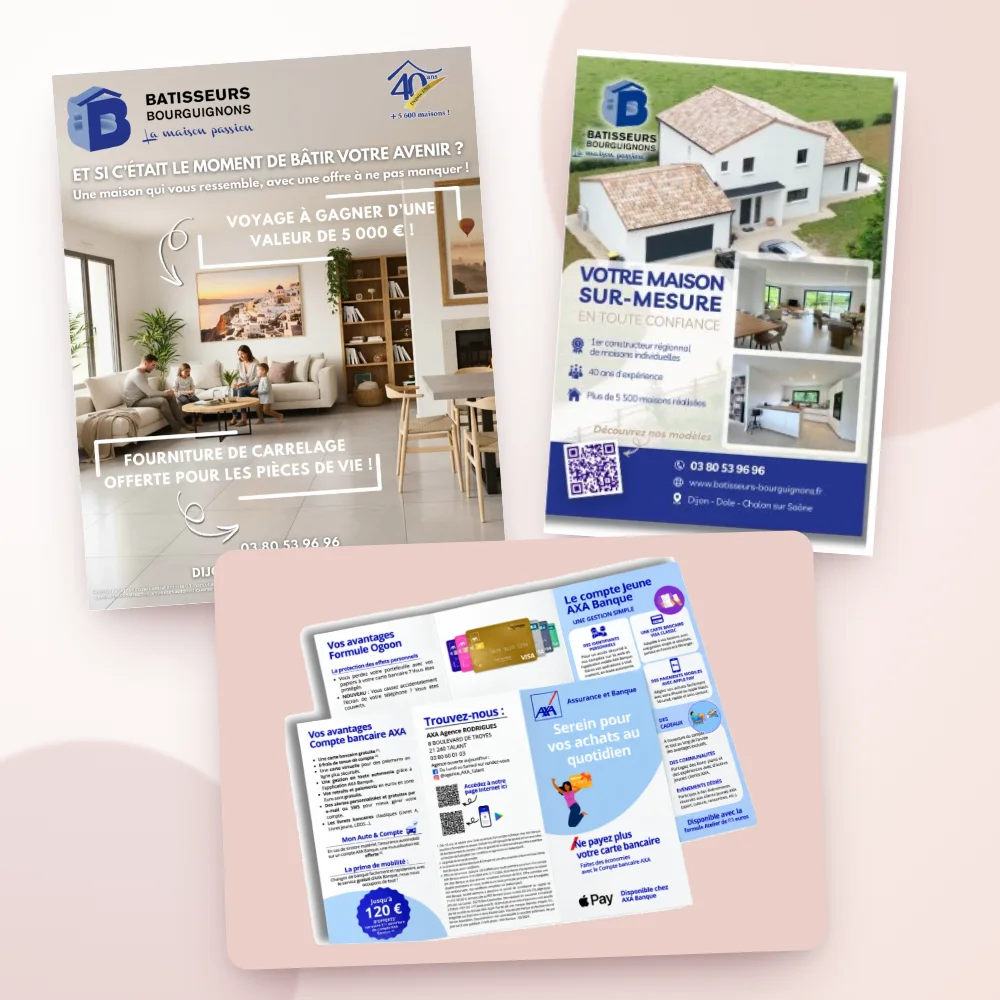
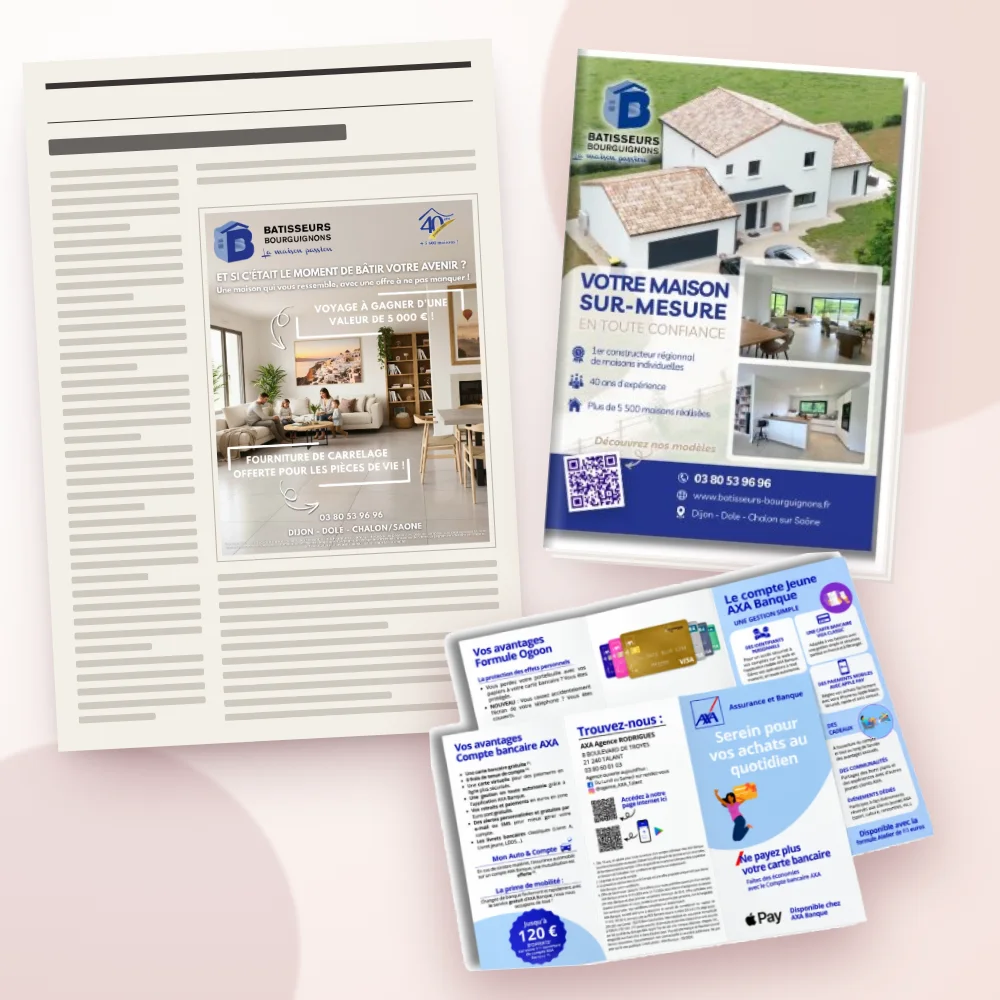
Campagnes : encart dans un journal, 4e de couverture magazine, flyers AXA sans fond
Claude-Session: https://claude.ai/code/session_01ChKnf7MBQ7UGRg99UEPnwq

diff --git a/index.html b/index.html
@@ -807,7 +807,7 @@ blockquote footer b{display:block;color:var(--encre);font-weight:500;font-size:1
   <section class="bloc" id="realisations">
     <div class="wrap">
       <div class="entete-bloc"><div><p class="surtitre">Sur le terrain</p><h2>Mes missions</h2></div><p class="chapo" style="margin:0">Chaque case regroupe un type de mission. Cliquez pour voir le détail par entreprise.</p></div>
-      <div class="mosaique"><button class="projet" type="button" data-projet="social"><span class="plus-ico" aria-hidden="true">+</span><div class="visuel img"><picture><source media="(max-width:600px)" srcset="img/missions/mission-reseaux-sociaux-m.webp"><img src="img/missions/mission-reseaux-sociaux.webp" alt="Grille Instagram de Forme &amp; Force, story et jeu-concours du Marché aux Affaires, publication LinkedIn de NWS Laser" loading="lazy"></picture></div><div class="bas"><div><span class="type-mission">Réseaux sociaux</span><h3>Contenus et animation de communauté</h3><p class="realis">Templates Instagram Forme &amp; Force · Story « Jours fidélité » et jeu-concours Marché aux Affaires · Posts Bâtisseurs Bourguignons et NWS Laser</p></div></div></button><button class="projet" type="button" data-projet="campagnes"><span class="plus-ico" aria-hidden="true">+</span><div class="visuel img"><picture><source media="(max-width:600px)" srcset="img/missions/mission-campagnes-m.webp"><img src="img/missions/mission-campagnes.webp" alt="Encart presse « Voyage à gagner » et flyer « Votre maison sur-mesure » des Bâtisseurs Bourguignons, flyers de l&#x27;agence AXA" loading="lazy"></picture></div><div class="bas"><div><span class="type-mission">Campagnes publicitaires</span><h3>Pub digitale et print</h3><p class="realis">Encart presse et flyer Bâtisseurs Bourguignons · Flyers AXA · Campagnes Google Ads et Meta Ads</p></div></div></button><button class="projet" type="button" data-projet="site"><span class="plus-ico" aria-hidden="true">+</span><div class="visuel img"><picture><source media="(max-width:600px)" srcset="img/missions/mission-site-web-m.webp"><img src="img/missions/mission-site-web.webp" alt="Portfolio de Cloé Rebillard sur ordinateur, landing page et publication sur la fiche Google des Bâtisseurs Bourguignons" loading="lazy"></picture></div><div class="bas"><div><span class="type-mission">Site web et SEO</span><h3>Sites, landing page et fiche Google</h3><p class="realis">Mon portfolio, conçu de A à Z · Landing page et posts fiche Google Bâtisseurs Bourguignons · Participation aux sites Bâtisseurs Bourguignons et NWS Laser</p></div></div></button><button class="projet" type="button" data-projet="evenementiel"><span class="plus-ico" aria-hidden="true">+</span><div class="visuel img"><picture><source media="(max-width:600px)" srcset="img/missions/mission-evenementiel-m.webp"><img src="img/missions/mission-evenementiel.webp" alt="Visiteurs et stand des Bâtisseurs Bourguignons, dossier du team building et affiche du salon Micronora" loading="lazy"></picture></div><div class="bas"><div><span class="type-mission">Événementiel et partenariats</span><h3>Salons et événements réseau</h3><p class="realis">Salons de l&#x27;habitat Bâtisseurs Bourguignons · Team building Marché aux Affaires · Salon Micronora NWS Laser</p></div></div></button><button class="projet" type="button" data-projet="videos"><span class="plus-ico" aria-hidden="true">+</span><div class="visuel img"><picture><source media="(max-width:600px)" srcset="img/missions/mission-videos-m.webp"><img src="img/missions/mission-videos.webp" alt="Vidéo de présentation du modèle de maison Axinite des Bâtisseurs Bourguignons" loading="lazy"></picture></div><div class="bas"><div><span class="type-mission">Vidéos</span><h3>Vidéos de présentation</h3><p class="realis">Vidéo du modèle Axinite et vidéos des réalisations Bâtisseurs Bourguignons</p></div></div></button><button class="projet" type="button" data-projet="strategie"><span class="plus-ico" aria-hidden="true">+</span><div class="visuel img"><picture><source media="(max-width:600px)" srcset="img/missions/mission-strategie-m.webp"><img src="img/missions/mission-strategie.webp" alt="Plan de communication 2026, charte graphique de Cani Positive et tableaux de statistiques" loading="lazy"></picture></div><div class="bas"><div><span class="type-mission">Stratégie et reporting</span><h3>Plans de com&#x27;, identité et résultats</h3><p class="realis">Plan de communication 2026 · Charte graphique Cani Positive · Reportings Facebook, Meta Ads et jeu-concours</p></div></div></button></div>
+      <div class="mosaique"><button class="projet" type="button" data-projet="social"><span class="plus-ico" aria-hidden="true">+</span><div class="visuel img"><picture><source media="(max-width:600px)" srcset="img/missions/mission-reseaux-sociaux-m.webp"><img src="img/missions/mission-reseaux-sociaux.webp" alt="Grille Instagram de Forme &amp; Force, story et jeu-concours du Marché aux Affaires, publication LinkedIn de NWS Laser" loading="lazy"></picture></div><div class="bas"><div><span class="type-mission">Réseaux sociaux</span><h3>Contenus et animation de communauté</h3><p class="realis">Templates Instagram Forme &amp; Force · Story « Jours fidélité » et jeu-concours Marché aux Affaires · Posts Bâtisseurs Bourguignons et NWS Laser</p></div></div></button><button class="projet" type="button" data-projet="campagnes"><span class="plus-ico" aria-hidden="true">+</span><div class="visuel img"><picture><source media="(max-width:600px)" srcset="img/missions/mission-campagnes-m.webp"><img src="img/missions/mission-campagnes.webp" alt="Encart presse « Voyage à gagner » dans un journal, quatrième de couverture « Votre maison sur-mesure » des Bâtisseurs Bourguignons, flyers de l&#x27;agence AXA" loading="lazy"></picture></div><div class="bas"><div><span class="type-mission">Campagnes publicitaires</span><h3>Pub digitale et print</h3><p class="realis">Encart presse et 4e de couverture magazine Bâtisseurs Bourguignons · Flyers AXA · Campagnes Google Ads et Meta Ads</p></div></div></button><button class="projet" type="button" data-projet="site"><span class="plus-ico" aria-hidden="true">+</span><div class="visuel img"><picture><source media="(max-width:600px)" srcset="img/missions/mission-site-web-m.webp"><img src="img/missions/mission-site-web.webp" alt="Portfolio de Cloé Rebillard sur ordinateur, landing page et publication sur la fiche Google des Bâtisseurs Bourguignons" loading="lazy"></picture></div><div class="bas"><div><span class="type-mission">Site web et SEO</span><h3>Sites, landing page et fiche Google</h3><p class="realis">Mon portfolio, conçu de A à Z · Landing page et posts fiche Google Bâtisseurs Bourguignons · Participation aux sites Bâtisseurs Bourguignons et NWS Laser</p></div></div></button><button class="projet" type="button" data-projet="evenementiel"><span class="plus-ico" aria-hidden="true">+</span><div class="visuel img"><picture><source media="(max-width:600px)" srcset="img/missions/mission-evenementiel-m.webp"><img src="img/missions/mission-evenementiel.webp" alt="Visiteurs et stand des Bâtisseurs Bourguignons, dossier du team building et affiche du salon Micronora" loading="lazy"></picture></div><div class="bas"><div><span class="type-mission">Événementiel et partenariats</span><h3>Salons et événements réseau</h3><p class="realis">Salons de l&#x27;habitat Bâtisseurs Bourguignons · Team building Marché aux Affaires · Salon Micronora NWS Laser</p></div></div></button><button class="projet" type="button" data-projet="videos"><span class="plus-ico" aria-hidden="true">+</span><div class="visuel img"><picture><source media="(max-width:600px)" srcset="img/missions/mission-videos-m.webp"><img src="img/missions/mission-videos.webp" alt="Vidéo de présentation du modèle de maison Axinite des Bâtisseurs Bourguignons" loading="lazy"></picture></div><div class="bas"><div><span class="type-mission">Vidéos</span><h3>Vidéos de présentation</h3><p class="realis">Vidéo du modèle Axinite et vidéos des réalisations Bâtisseurs Bourguignons</p></div></div></button><button class="projet" type="button" data-projet="strategie"><span class="plus-ico" aria-hidden="true">+</span><div class="visuel img"><picture><source media="(max-width:600px)" srcset="img/missions/mission-strategie-m.webp"><img src="img/missions/mission-strategie.webp" alt="Plan de communication 2026, charte graphique de Cani Positive et tableaux de statistiques" loading="lazy"></picture></div><div class="bas"><div><span class="type-mission">Stratégie et reporting</span><h3>Plans de com&#x27;, identité et résultats</h3><p class="realis">Plan de communication 2026 · Charte graphique Cani Positive · Reportings Facebook, Meta Ads et jeu-concours</p></div></div></button></div>
     </div>
   </section>
 
@@ -952,7 +952,7 @@ Bien cordialement,</textarea>
 
 <script>
 (function(){
-  var P={"social": {"client": "Réseaux sociaux", "titre": "Contenus et animation de communauté", "img": "img/missions/mission-reseaux-sociaux.webp", "imgm": "img/missions/mission-reseaux-sociaux-m.webp", "alt": "Grille Instagram de Forme & Force, story et jeu-concours du Marché aux Affaires, publication LinkedIn de NWS Laser", "mission": "Installer une prise de parole régulière qui fait grandir l'audience.", "actions": ["Forme & Force : stratégie, piliers de contenu et templates Instagram", "Marché aux Affaires : stories promotionnelles et jeu-concours", "Bâtisseurs Bourguignons : publications Instagram et Facebook", "NWS Laser : publications LinkedIn", "Agence AXA : 2 à 3 publications Facebook par semaine"], "chiffres": [["4 000+", "inscrits au jeu-concours"], ["+136 %", "de visibilité Facebook pour AXA"]], "tags": ["Instagram", "Facebook", "LinkedIn"]}, "campagnes": {"client": "Campagnes publicitaires", "titre": "Pub digitale et print", "img": "img/missions/mission-campagnes.webp", "imgm": "img/missions/mission-campagnes-m.webp", "alt": "Encart presse « Voyage à gagner » et flyer « Votre maison sur-mesure » des Bâtisseurs Bourguignons, flyers de l'agence AXA", "mission": "Toucher les bons prospects, en ligne comme sur papier, avec un budget maîtrisé.", "actions": ["Campagnes Google Ads (SEA) : mots-clés, annonces et suivi des performances", "Bâtisseurs Bourguignons : campagnes Meta Ads, ciblage et suivi du coût par clic", "Bâtisseurs Bourguignons : encart presse « Voyage à gagner » et flyer « Votre maison sur-mesure »", "Agence AXA : flyers produits"], "chiffres": [["0,18 €", "de coût par clic sur Meta Ads"]], "tags": ["Google Ads", "Meta Ads", "Print", "Presse"]}, "site": {"client": "Site web et SEO", "titre": "Sites, landing page et fiche Google", "img": "img/missions/mission-site-web.webp", "imgm": "img/missions/mission-site-web-m.webp", "alt": "Portfolio de Cloé Rebillard sur ordinateur, landing page et publication sur la fiche Google des Bâtisseurs Bourguignons", "mission": "Faire du site un vrai outil de prospection, visible sur Google et en local. Ce portfolio, je l'ai conçu de A à Z.", "actions": ["Mon portfolio : conception de A à Z (structure, textes, design et mise en ligne)", "Bâtisseurs Bourguignons : participation à la conception du site, landing page, articles SEO et publications sur la fiche Google", "NWS Laser : participation à la refonte du site, articles SEO et fiche Google", "Une auto-entrepreneuse : conception de son site internet"], "chiffres": [["≈ 20", "leads par mois via le site des Bâtisseurs"]], "tags": ["WordPress", "SEO", "Fiche Google"]}, "evenementiel": {"client": "Événementiel et partenariats", "titre": "Salons et événements réseau", "img": "img/missions/mission-evenementiel.webp", "imgm": "img/missions/mission-evenementiel-m.webp", "alt": "Visiteurs et stand des Bâtisseurs Bourguignons, dossier du team building et affiche du salon Micronora", "mission": "Créer des rendez-vous qui fédèrent et qui rapportent des contacts.", "actions": ["Marché aux Affaires : team building de 2 jours pour 300 franchisés", "Bâtisseurs Bourguignons : stands et salons de l'habitat", "NWS Laser : salons professionnels Micronora et SIANE", "Relations presse et partenariats"], "chiffres": [["300", "franchisés réunis"]], "tags": ["Événementiel", "Salons", "Partenariats"]}, "videos": {"client": "Vidéos", "titre": "Vidéos de présentation", "img": "img/missions/mission-videos.webp", "imgm": "img/missions/mission-videos-m.webp", "alt": "Vidéo de présentation du modèle de maison Axinite des Bâtisseurs Bourguignons", "mission": "Montrer les réalisations en mouvement pour donner envie de se projeter.", "actions": ["Bâtisseurs Bourguignons : vidéos de présentation des modèles de maisons", "Montage de formats courts pour les réseaux sociaux et le site"], "chiffres": [], "tags": ["Vidéo", "Montage", "CapCut"]}, "strategie": {"client": "Stratégie et reporting", "titre": "Plans de com', identité et résultats", "img": "img/missions/mission-strategie.webp", "imgm": "img/missions/mission-strategie-m.webp", "alt": "Plan de communication 2026, charte graphique de Cani Positive et tableaux de statistiques", "mission": "Définir où aller, donner une image cohérente et mesurer ce que la communication rapporte.", "actions": ["Plan de communication annuel : bilan, objectifs, budget et calendrier", "Cani Positive et Forme & Force : positionnement et identité au lancement", "NWS Laser : audit, cibles et positionnement", "Reportings : visibilité Facebook AXA, campagnes Meta Ads, bilan du jeu-concours"], "chiffres": [], "tags": ["Stratégie", "Identité", "KPI", "Reporting"]}};
+  var P={"social": {"client": "Réseaux sociaux", "titre": "Contenus et animation de communauté", "img": "img/missions/mission-reseaux-sociaux.webp", "imgm": "img/missions/mission-reseaux-sociaux-m.webp", "alt": "Grille Instagram de Forme & Force, story et jeu-concours du Marché aux Affaires, publication LinkedIn de NWS Laser", "mission": "Installer une prise de parole régulière qui fait grandir l'audience.", "actions": ["Forme & Force : stratégie, piliers de contenu et templates Instagram", "Marché aux Affaires : stories promotionnelles et jeu-concours", "Bâtisseurs Bourguignons : publications Instagram et Facebook", "NWS Laser : publications LinkedIn", "Agence AXA : 2 à 3 publications Facebook par semaine"], "chiffres": [["4 000+", "inscrits au jeu-concours"], ["+136 %", "de visibilité Facebook pour AXA"]], "tags": ["Instagram", "Facebook", "LinkedIn"]}, "campagnes": {"client": "Campagnes publicitaires", "titre": "Pub digitale et print", "img": "img/missions/mission-campagnes.webp", "imgm": "img/missions/mission-campagnes-m.webp", "alt": "Encart presse « Voyage à gagner » dans un journal, quatrième de couverture « Votre maison sur-mesure » des Bâtisseurs Bourguignons, flyers de l'agence AXA", "mission": "Toucher les bons prospects, en ligne comme sur papier, avec un budget maîtrisé.", "actions": ["Campagnes Google Ads (SEA) : mots-clés, annonces et suivi des performances", "Bâtisseurs Bourguignons : campagnes Meta Ads, ciblage et suivi du coût par clic", "Bâtisseurs Bourguignons : encart presse « Voyage à gagner » et quatrième de couverture de magazine « Votre maison sur-mesure »", "Agence AXA : flyers produits"], "chiffres": [["0,18 €", "de coût par clic sur Meta Ads"]], "tags": ["Google Ads", "Meta Ads", "Print", "Presse"]}, "site": {"client": "Site web et SEO", "titre": "Sites, landing page et fiche Google", "img": "img/missions/mission-site-web.webp", "imgm": "img/missions/mission-site-web-m.webp", "alt": "Portfolio de Cloé Rebillard sur ordinateur, landing page et publication sur la fiche Google des Bâtisseurs Bourguignons", "mission": "Faire du site un vrai outil de prospection, visible sur Google et en local. Ce portfolio, je l'ai conçu de A à Z.", "actions": ["Mon portfolio : conception de A à Z (structure, textes, design et mise en ligne)", "Bâtisseurs Bourguignons : participation à la conception du site, landing page, articles SEO et publications sur la fiche Google", "NWS Laser : participation à la refonte du site, articles SEO et fiche Google", "Une auto-entrepreneuse : conception de son site internet"], "chiffres": [["≈ 20", "leads par mois via le site des Bâtisseurs"]], "tags": ["WordPress", "SEO", "Fiche Google"]}, "evenementiel": {"client": "Événementiel et partenariats", "titre": "Salons et événements réseau", "img": "img/missions/mission-evenementiel.webp", "imgm": "img/missions/mission-evenementiel-m.webp", "alt": "Visiteurs et stand des Bâtisseurs Bourguignons, dossier du team building et affiche du salon Micronora", "mission": "Créer des rendez-vous qui fédèrent et qui rapportent des contacts.", "actions": ["Marché aux Affaires : team building de 2 jours pour 300 franchisés", "Bâtisseurs Bourguignons : stands et salons de l'habitat", "NWS Laser : salons professionnels Micronora et SIANE", "Relations presse et partenariats"], "chiffres": [["300", "franchisés réunis"]], "tags": ["Événementiel", "Salons", "Partenariats"]}, "videos": {"client": "Vidéos", "titre": "Vidéos de présentation", "img": "img/missions/mission-videos.webp", "imgm": "img/missions/mission-videos-m.webp", "alt": "Vidéo de présentation du modèle de maison Axinite des Bâtisseurs Bourguignons", "mission": "Montrer les réalisations en mouvement pour donner envie de se projeter.", "actions": ["Bâtisseurs Bourguignons : vidéos de présentation des modèles de maisons", "Montage de formats courts pour les réseaux sociaux et le site"], "chiffres": [], "tags": ["Vidéo", "Montage", "CapCut"]}, "strategie": {"client": "Stratégie et reporting", "titre": "Plans de com', identité et résultats", "img": "img/missions/mission-strategie.webp", "imgm": "img/missions/mission-strategie-m.webp", "alt": "Plan de communication 2026, charte graphique de Cani Positive et tableaux de statistiques", "mission": "Définir où aller, donner une image cohérente et mesurer ce que la communication rapporte.", "actions": ["Plan de communication annuel : bilan, objectifs, budget et calendrier", "Cani Positive et Forme & Force : positionnement et identité au lancement", "NWS Laser : audit, cibles et positionnement", "Reportings : visibilité Facebook AXA, campagnes Meta Ads, bilan du jeu-concours"], "chiffres": [], "tags": ["Stratégie", "Identité", "KPI", "Reporting"]}};
   var d=document.getElementById('fenetre');
   function el(id){return document.getElementById(id)}
   function txt(t,tag){var e=document.createElement(tag);e.textContent=t;return e}
